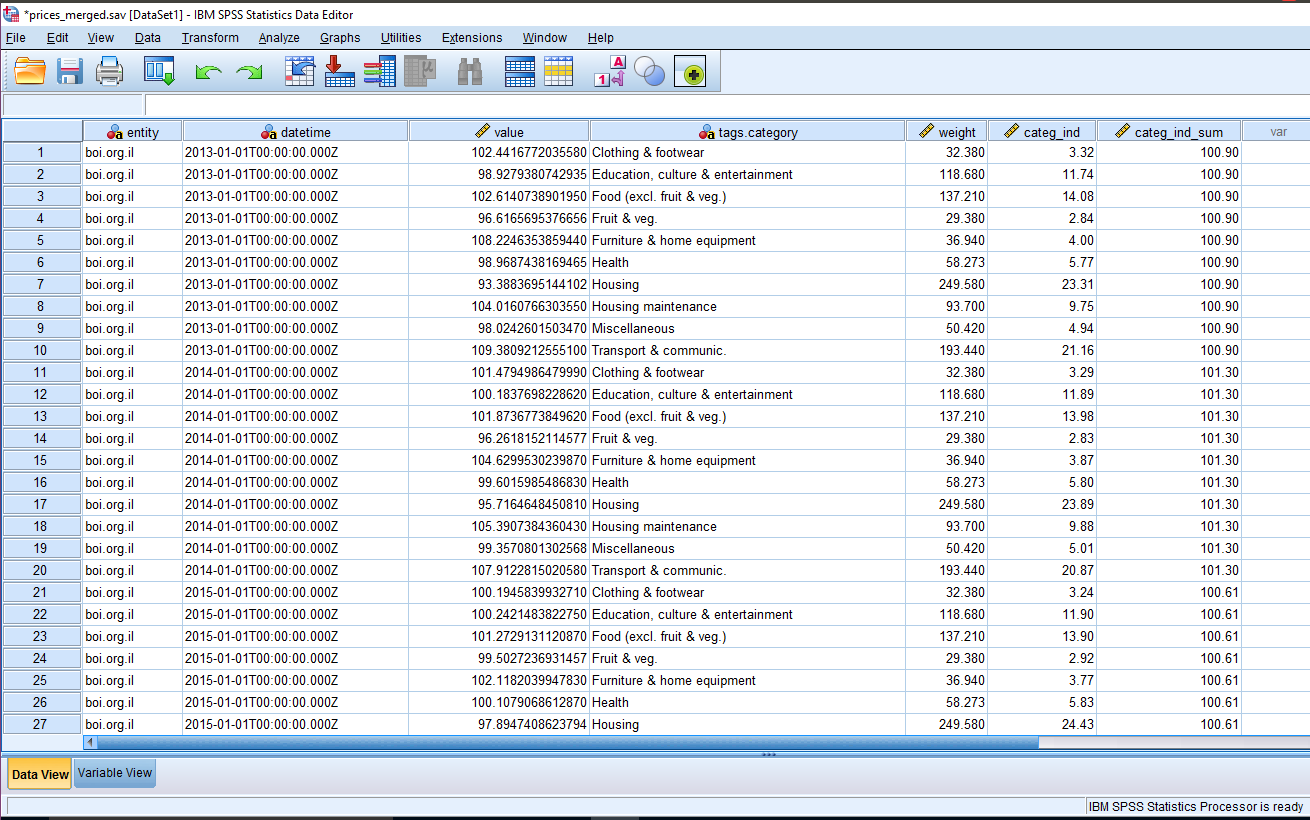
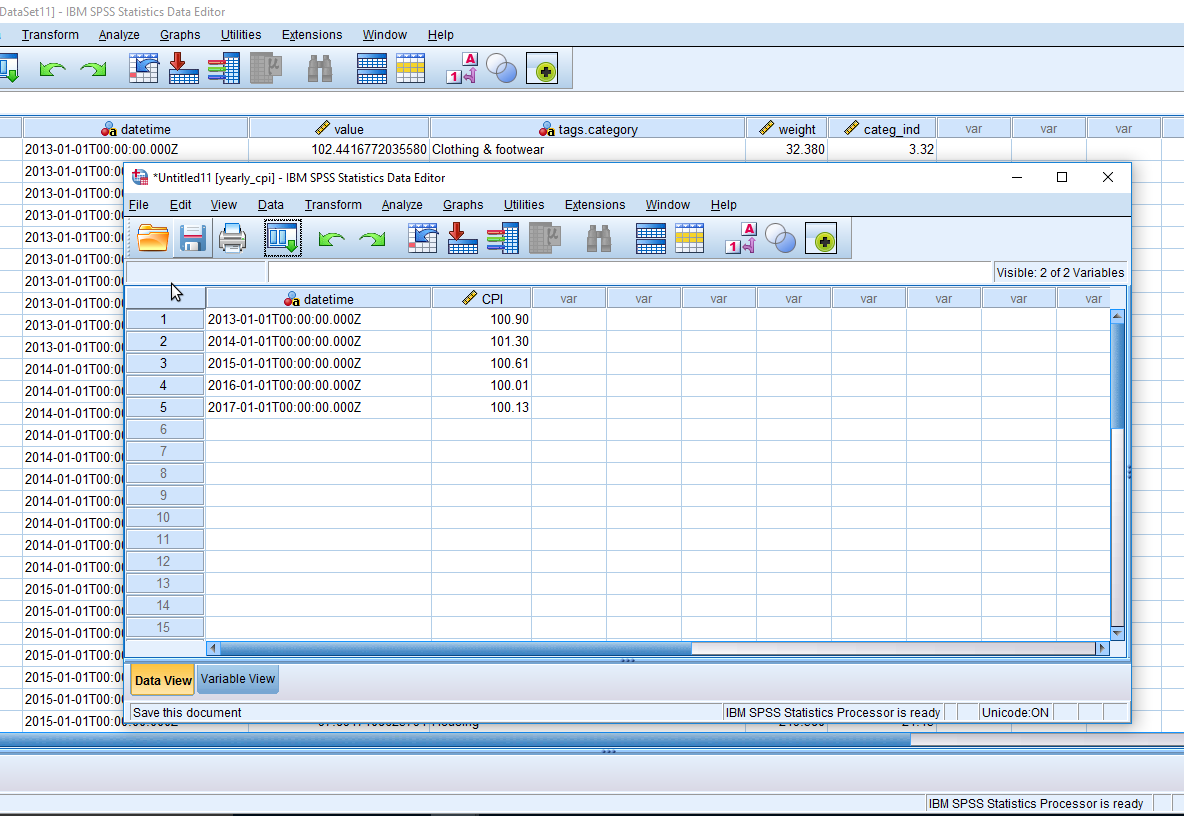
#4319. Replace screenshots for data aggregation.

diff --git a/integration/spss/README.md b/integration/spss/README.md
@@ -145,9 +145,10 @@ SPSS provides two alternatives to aggregate data by period.
 * Set `categ_ind` as summary variable and apply `SUM` function
 * Set `datetime` as the 'break' (grouping) variable
 * Customize column formats and output options
+* Select creating of new dataset with break and aggregated variables 
 
     ![](resources/data_aggregate_data.png)
     
-* The last column `categ_ind_sum` on the right contains the aggregation results.
+* Create new dataset with final columns `datetime` and `CPI`.
 
     ![](resources/aggr_data_new_column.png)
